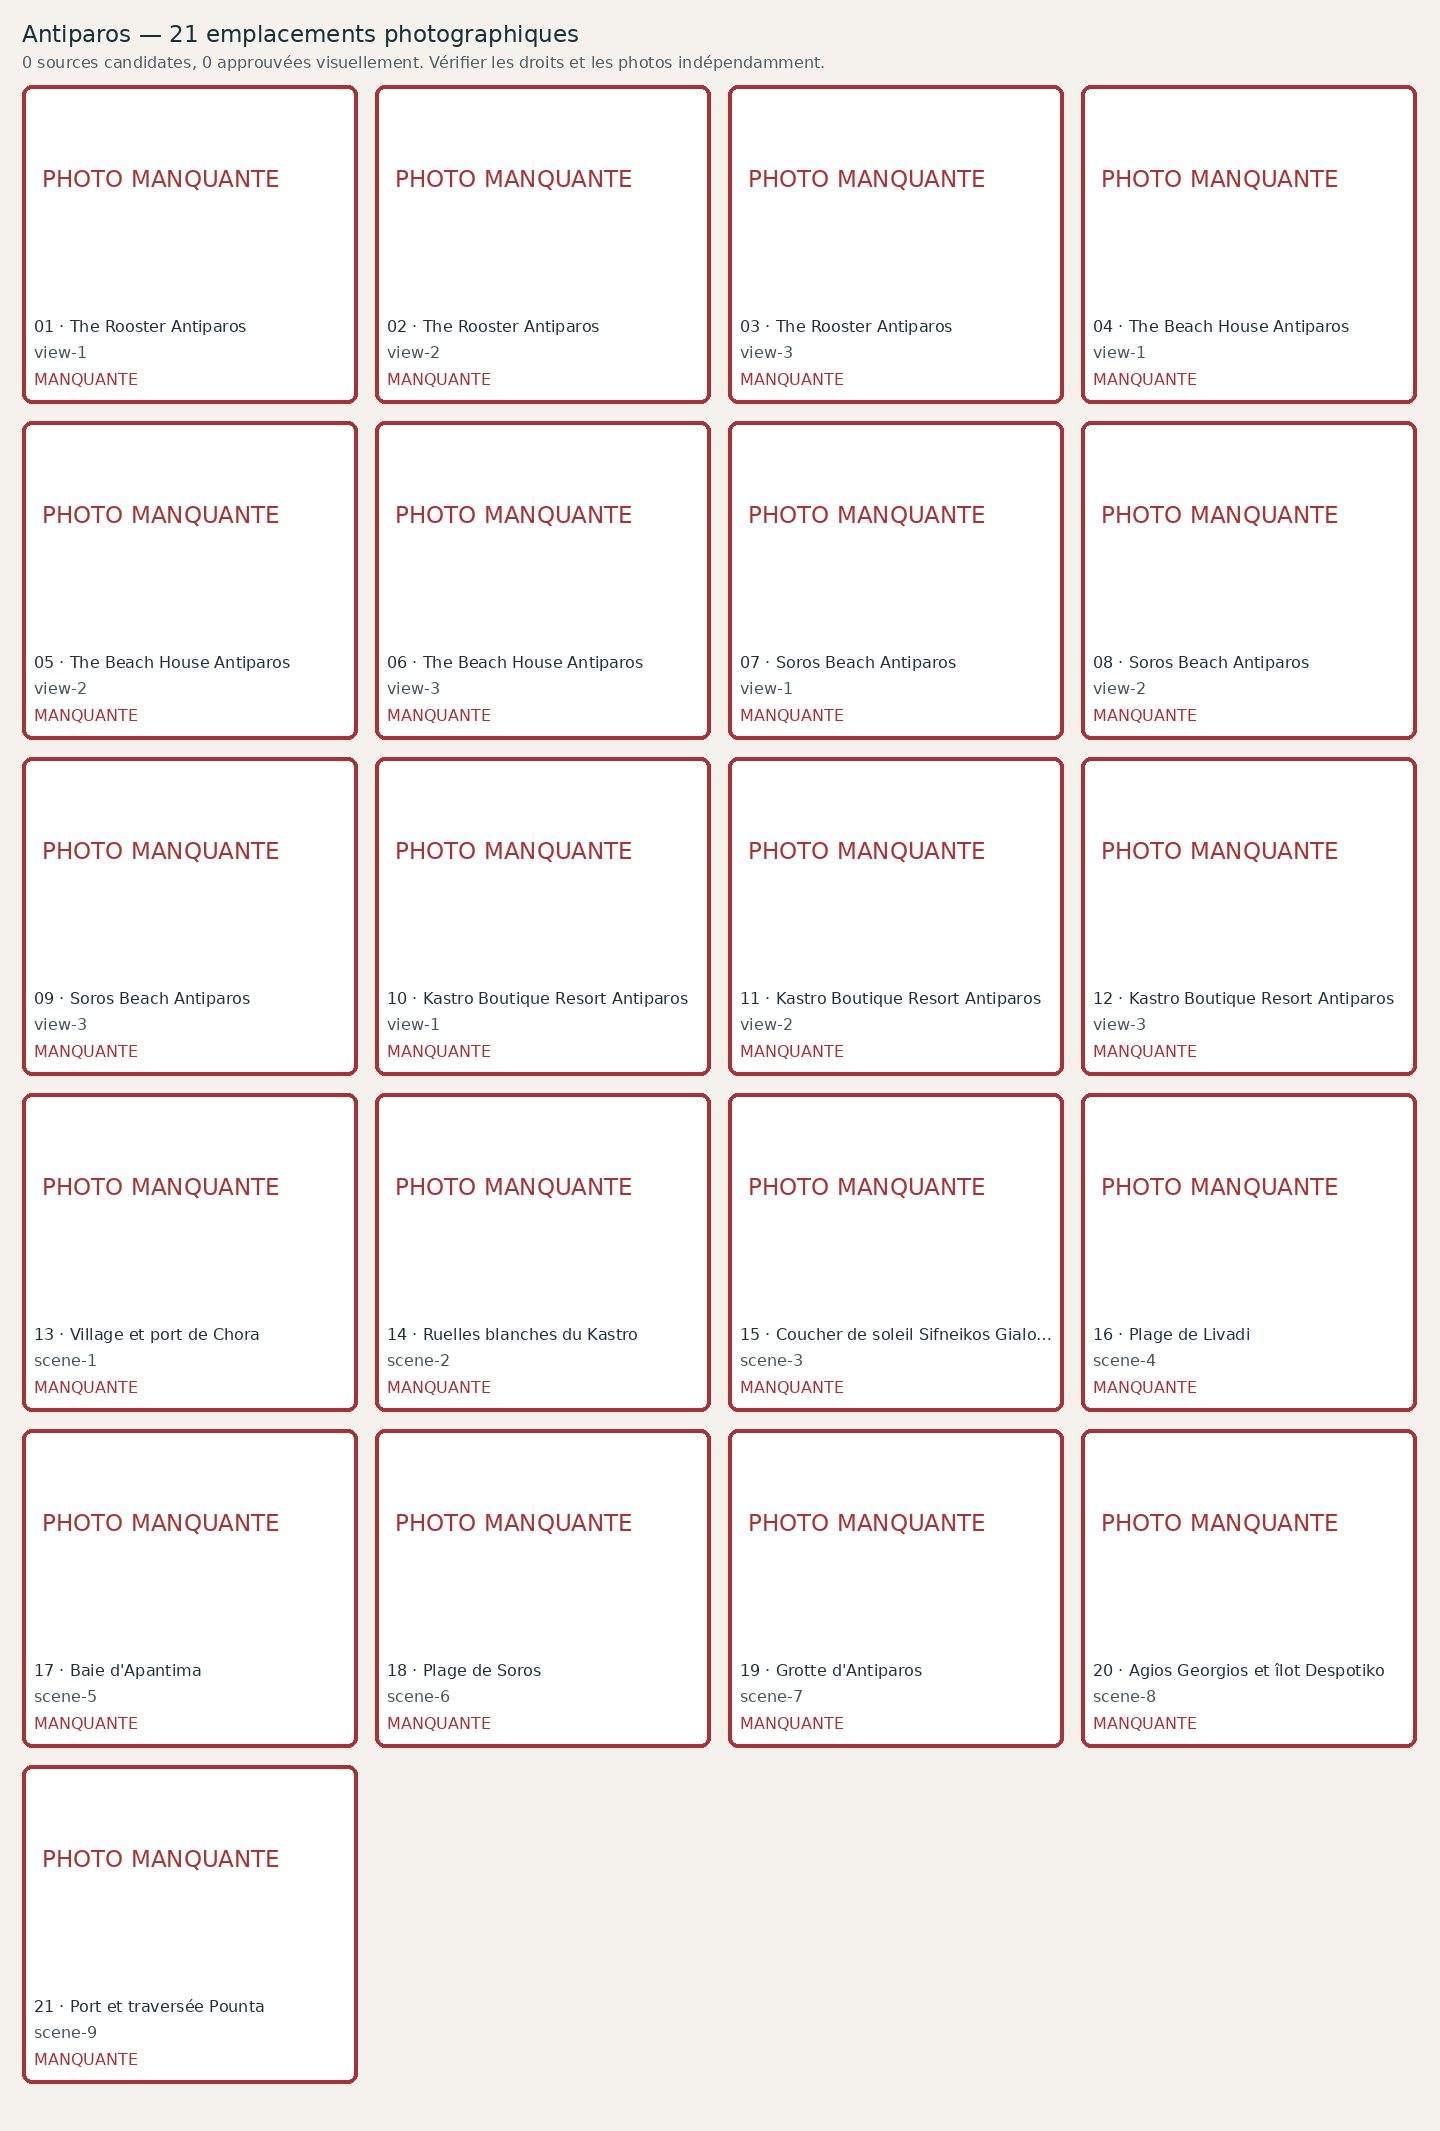
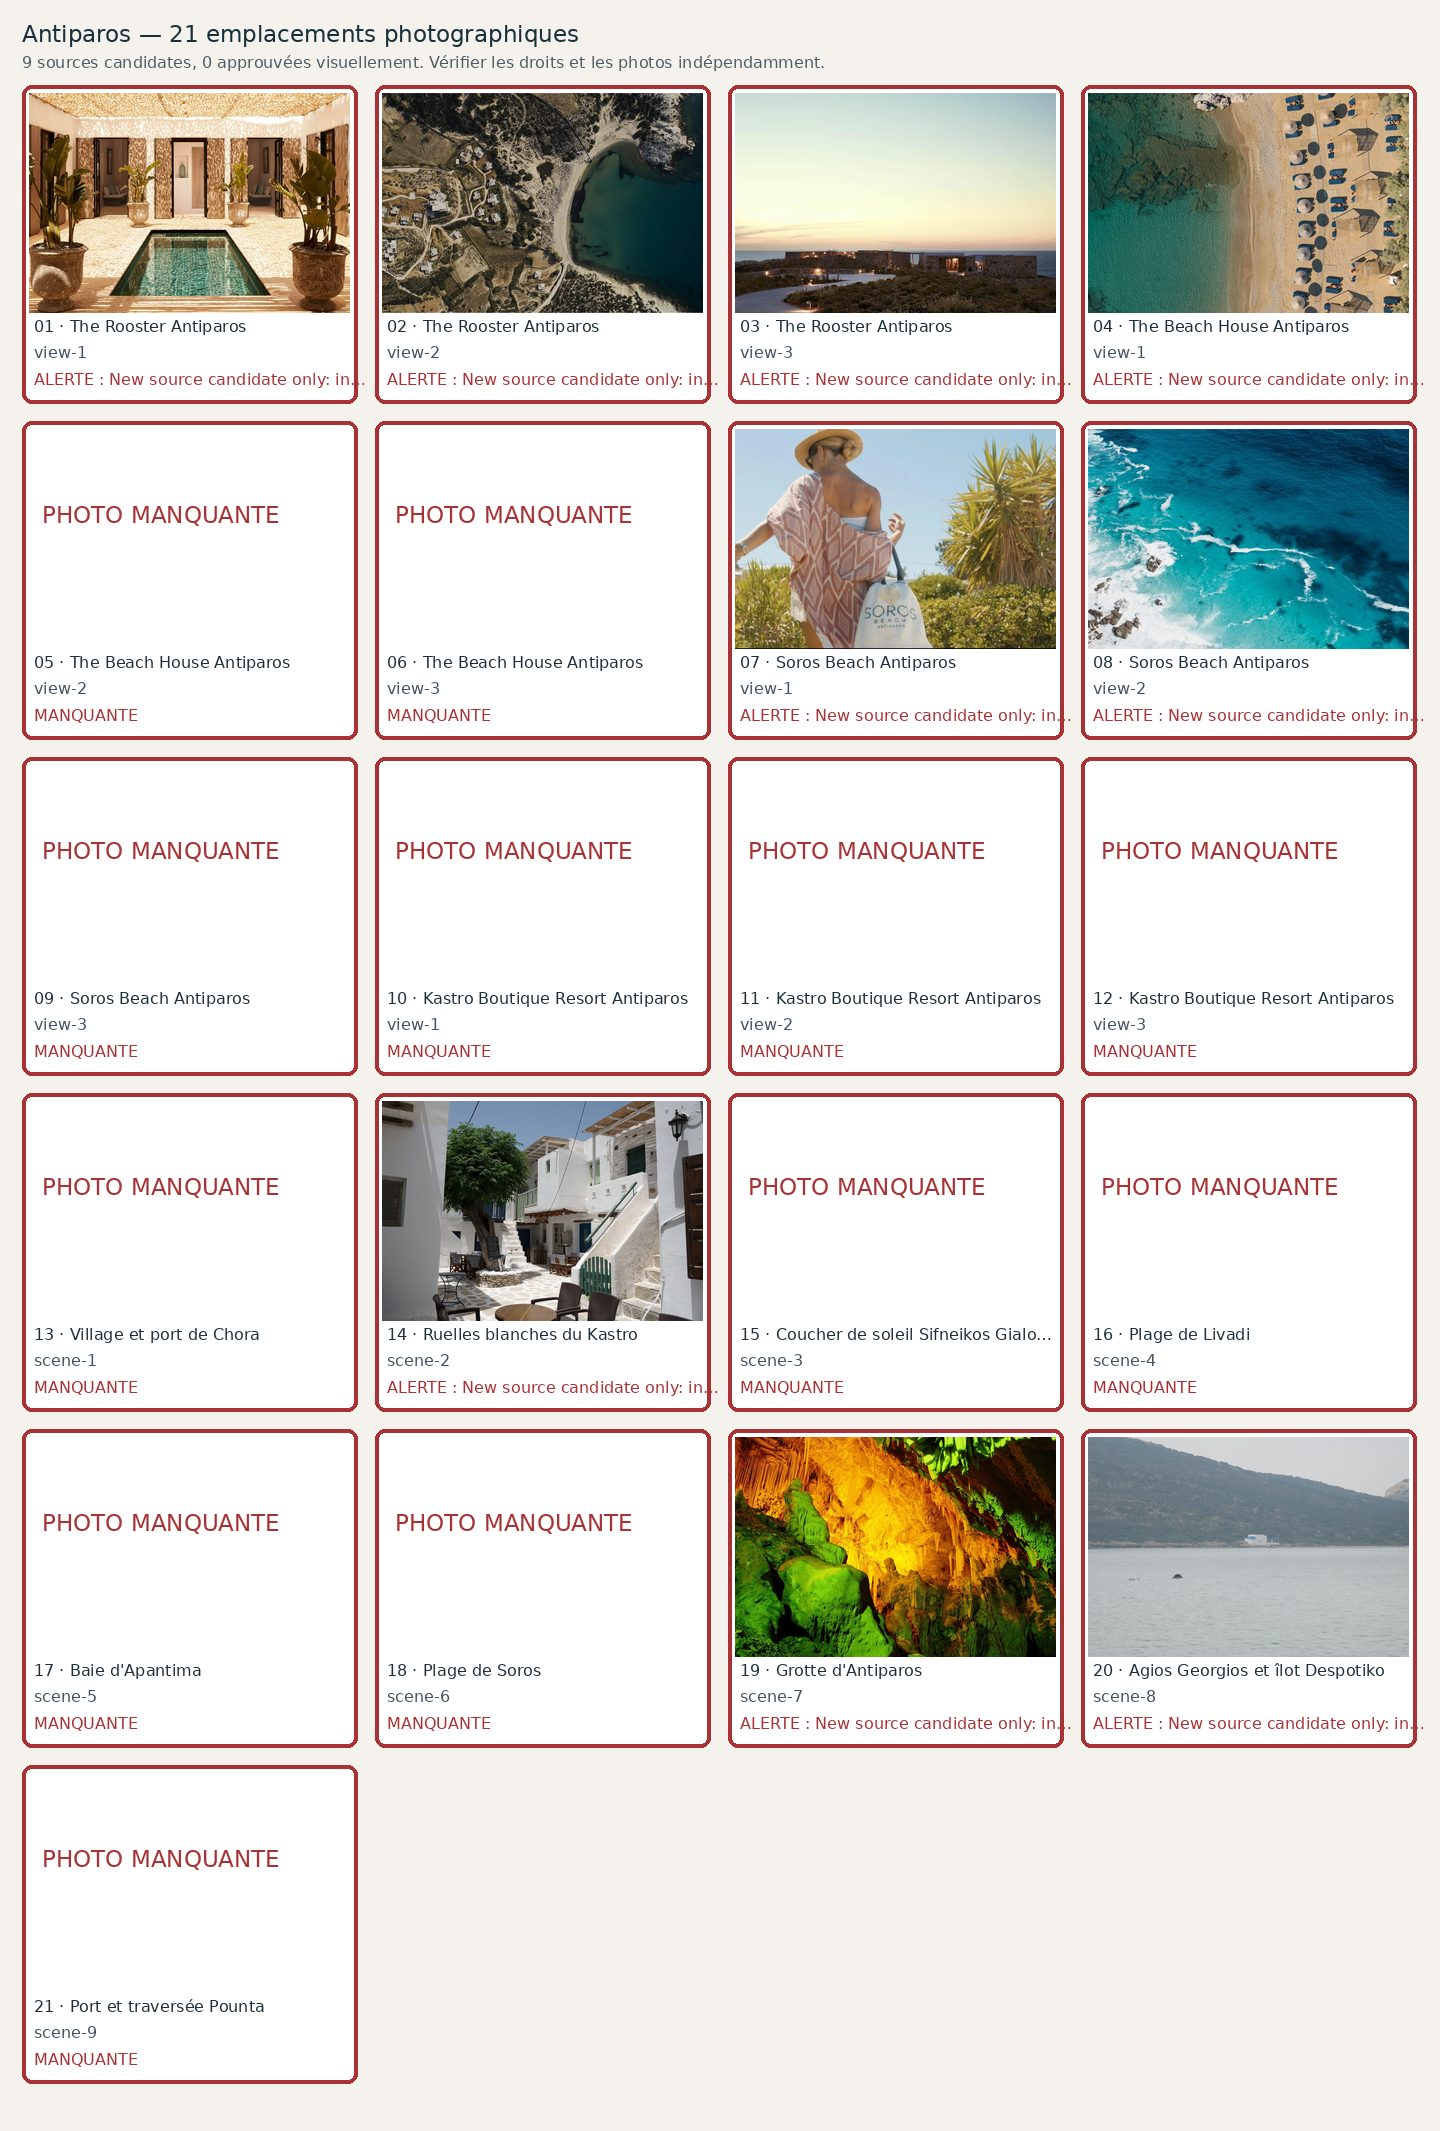
quality(travel): picture contact sheets for mountain guides and Cap Ferrat QA [skip ci]

Changed region(s): [[0.0, 0.031, 1.0, 0.3407], [0.5, 0.6504, 1.0, 0.8362], [0.25, 0.4955, 0.5, 0.6194]]

diff --git a/docs/travel-photo-contact-sheets/antiparos.md b/docs/travel-photo-contact-sheets/antiparos.md
@@ -1,29 +1,29 @@
 # Antiparos — 21 photographies à contrôler
 
-**Candidats récupérés : 0/21 · Validés visuellement : 0/21**. Aucune validation ne résulte du seul téléchargement.
+**Candidats récupérés : 9/21 · Validés visuellement : 0/21**. Aucune validation ne résulte du seul téléchargement.
 
 ![Planche de contrôle Antiparos](antiparos.jpg)
 
 | No | Etablissement / lieu | Source et métadonnées | État |
 |---:|---|---|---|
-| 1 | The Rooster Antiparos — view-1 | [Source](https://therooster.me/) · | Manquante; **No original verified image yet; do not render.** |
-| 2 | The Rooster Antiparos — view-2 | [Source](https://therooster.me/) · | Manquante; **No original verified image yet; do not render.** |
-| 3 | The Rooster Antiparos — view-3 | [Source](https://therooster.me/) · | Manquante; **No original verified image yet; do not render.** |
-| 4 | The Beach House Antiparos — view-1 | [Source](https://beachhouseantiparos.com/) · | Manquante; **No original verified image yet; do not render.** |
+| 1 | The Rooster Antiparos — view-1 | [Source](https://therooster.me/) ·    | Candidate; **New source candidate only: inspect actual photograph, property/geolocation, aesthetic quality and rights before approval.** |
+| 2 | The Rooster Antiparos — view-2 | [Source](https://therooster.me/) ·    | Candidate; **New source candidate only: inspect actual photograph, property/geolocation, aesthetic quality and rights before approval.** |
+| 3 | The Rooster Antiparos — view-3 | [Source](https://therooster.me/) ·    | Candidate; **New source candidate only: inspect actual photograph, property/geolocation, aesthetic quality and rights before approval.** |
+| 4 | The Beach House Antiparos — view-1 | [Source](https://beachhouseantiparos.com/) ·    | Candidate; **New source candidate only: inspect actual photograph, property/geolocation, aesthetic quality and rights before approval.** |
 | 5 | The Beach House Antiparos — view-2 | [Source](https://beachhouseantiparos.com/) · | Manquante; **No original verified image yet; do not render.** |
 | 6 | The Beach House Antiparos — view-3 | [Source](https://beachhouseantiparos.com/) · | Manquante; **No original verified image yet; do not render.** |
-| 7 | Soros Beach Antiparos — view-1 | [Source](https://www.sorosbeach.gr/) · | Manquante; **No original verified image yet; do not render.** |
-| 8 | Soros Beach Antiparos — view-2 | [Source](https://www.sorosbeach.gr/) · | Manquante; **No original verified image yet; do not render.** |
+| 7 | Soros Beach Antiparos — view-1 | [Source](https://www.sorosbeach.gr/) ·    | Candidate; **New source candidate only: inspect actual photograph, property/geolocation, aesthetic quality and rights before approval.** |
+| 8 | Soros Beach Antiparos — view-2 | [Source](https://www.sorosbeach.gr/) ·    | Candidate; **New source candidate only: inspect actual photograph, property/geolocation, aesthetic quality and rights before approval.** |
 | 9 | Soros Beach Antiparos — view-3 | [Source](https://www.sorosbeach.gr/) · | Manquante; **No original verified image yet; do not render.** |
 | 10 | Kastro Boutique Resort Antiparos — view-1 | [Source](https://www.antiparosgreece.com/) · | Manquante; **No original verified image yet; do not render.** |
 | 11 | Kastro Boutique Resort Antiparos — view-2 | [Source](https://www.antiparosgreece.com/) · | Manquante; **No original verified image yet; do not render.** |
 | 12 | Kastro Boutique Resort Antiparos — view-3 | [Source](https://www.antiparosgreece.com/) · | Manquante; **No original verified image yet; do not render.** |
 | 13 | Village et port de Chora — scene-1 | Source à trouver · | Manquante; **No original verified image yet; do not render.** |
-| 14 | Ruelles blanches du Kastro — scene-2 | Source à trouver · | Manquante; **No original verified image yet; do not render.** |
+| 14 | Ruelles blanches du Kastro — scene-2 | [Source](https://commons.wikimedia.org/wiki/File:Antiparos,_Kastro,_247356.jpg) · Antiparos village near the historic Kastro, Zde 2024| Candidate; **New source candidate only: inspect actual photograph, property/geolocation, aesthetic quality and rights before approval.** |
 | 15 | Coucher de soleil Sifneikos Gialos — scene-3 | Source à trouver · | Manquante; **No original verified image yet; do not render.** |
 | 16 | Plage de Livadi — scene-4 | Source à trouver · | Manquante; **No original verified image yet; do not render.** |
 | 17 | Baie d'Apantima — scene-5 | Source à trouver · | Manquante; **No original verified image yet; do not render.** |
-| 18 | Plage de Soros — scene-6 | Source à trouver · | Manquante; **No original verified image yet; do not render.** |
-| 19 | Grotte d'Antiparos — scene-7 | Source à trouver · | Manquante; **No original verified image yet; do not render.** |
-| 20 | Agios Georgios et îlot Despotiko — scene-8 | Source à trouver · | Manquante; **No original verified image yet; do not render.** |
+| 18 | Plage de Soros — scene-6 | [Source](https://commons.wikimedia.org/wiki/File:Antiparos_Beach.jpg) · | Manquante; **Generic Antiparos Beach Wikimedia file actually depicts north nude beach; it is not the Soros coast. Exact geolocated Soros image required.** |
+| 19 | Grotte d'Antiparos — scene-7 | [Source](https://commons.wikimedia.org/wiki/File:Antiparos_cave.JPG) · File:Antiparos cave.JPG| Candidate; **New source candidate only: inspect actual photograph, property/geolocation, aesthetic quality and rights before approval.** |
+| 20 | Agios Georgios et îlot Despotiko — scene-8 | [Source](https://commons.wikimedia.org/wiki/File:Despotiko.jpg) · File:Despotiko.jpg| Candidate; **New source candidate only: inspect actual photograph, property/geolocation, aesthetic quality and rights before approval.** |
 | 21 | Port et traversée Pounta — scene-9 | Source à trouver · | Manquante; **No original verified image yet; do not render.** |

diff --git a/docs/travel-photo-contact-sheets/README.md b/docs/travel-photo-contact-sheets/README.md
@@ -21,4 +21,4 @@ Les photographies récemment remplacées restent rouges tant qu'elles n'ont pas 
 - [Positano](positano.md) — 21/21 fichiers candidats, 0 alertes ; [ouvrir l'image seule](positano.jpg)
 - [Ravello](ravello.md) — 21/21 fichiers candidats, 0 alertes ; [ouvrir l'image seule](ravello.jpg)
 - [Mykonos](mykonos.md) — 21/21 fichiers candidats, 0 alertes ; [ouvrir l'image seule](mykonos.jpg)
-- [Antiparos](antiparos.md) — 0/21 fichiers candidats, 21 alertes ; [ouvrir l'image seule](antiparos.jpg)
+- [Antiparos](antiparos.md) — 9/21 fichiers candidats, 21 alertes ; [ouvrir l'image seule](antiparos.jpg)
